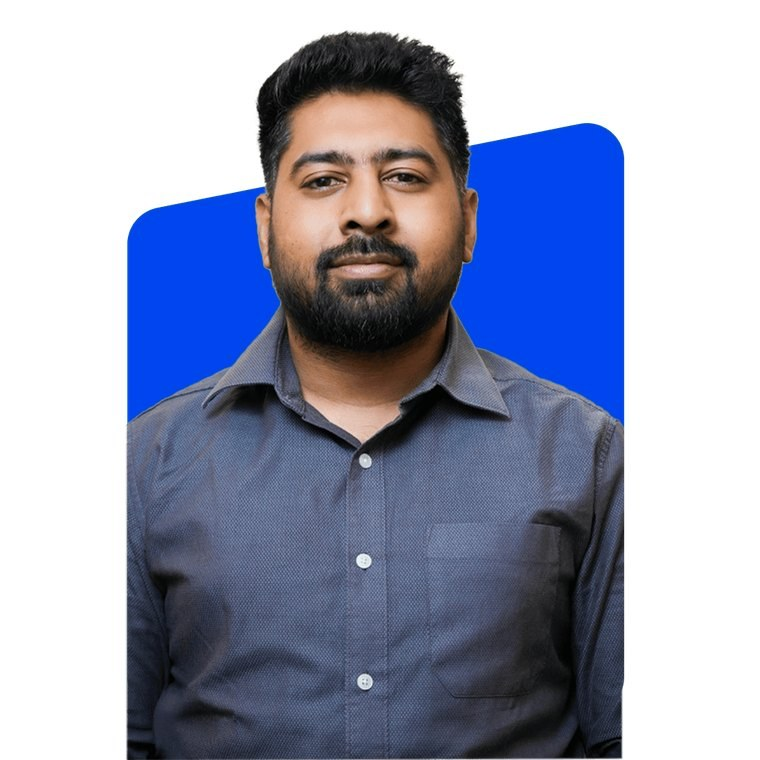
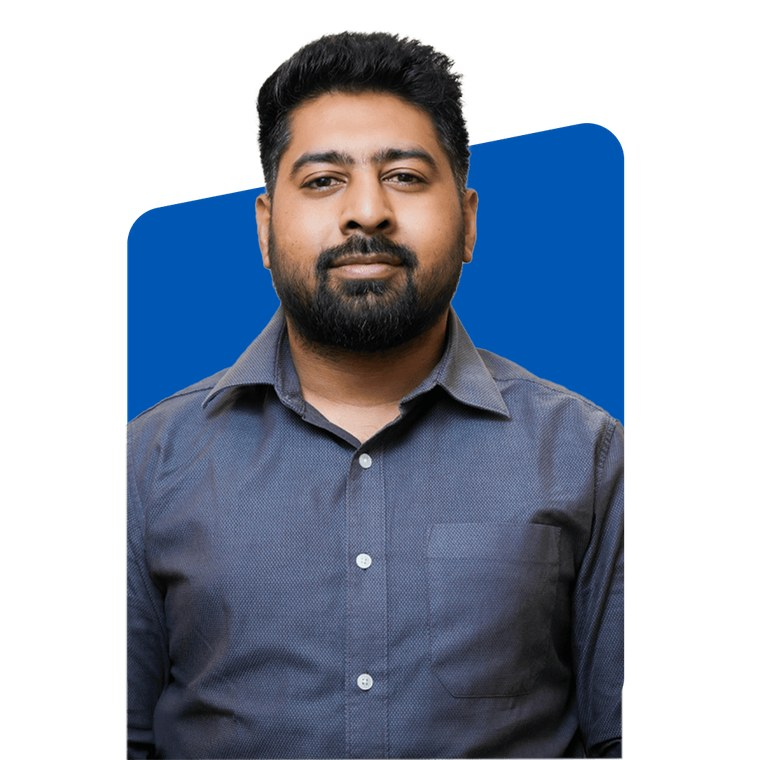
Switch to the source site's red and highlight key phrases
The page had no emphasis anywhere — every heading read as one flat
block of navy. alscourse.com highlights words inside its headings in
red, which is what carries the eye.

Adopt that palette in place of the borrowed blue, using the two tokens
the source actually defines: #FF0000 for heading highlights (UK,
Australia, and the equivalent phrase in every other section) and
#FF4D00 for the three phrases picked out inside the testimonial.

Both source reds fall short of AA at body size — #FF0000 is 4.00:1 on
white and #FF4D00 is 3.33:1. So #FF0000 is confined to headings, where
42-54px clears the 3:1 large-text bar, while buttons and small text use
#E60000 (4.81:1) and the quote highlights use #D43F00 (4.66:1). Both
read as the same reds. Verified zero contrast failures page-wide,
checked per element against its own size and weight.

Team photos are restored to their original #0056B3 backdrop — the blue
was only shifted to match the previous accent, and the source itself
pairs that blue with red.

Changed region(s): [[0.575, 0.1513, 0.8474, 0.5447], [0.1513, 0.2421, 0.3632, 0.5447]]

diff --git a/index.html b/index.html
@@ -183,9 +183,11 @@ tailwind.config = {
   theme: {
     extend: {
       colors: {
-        brand:   '#0145F0',
-        brandDeep:'#0134B8',
-        brandSoft:'#E8EEFE',
+        brand:   '#E60000',
+        brandHi: '#FF0000',
+        flame:   '#D43F00',
+        brandDeep:'#B30000',
+        brandSoft:'#FFECEC',
         ink:     '#011139',
         body:    '#4B5563',
         paper:   '#F5F7FC',
@@ -215,14 +217,14 @@ tailwind.config = {
          padding:.8rem 1rem .8rem 1.45rem; font-size:.9375rem; font-weight:600;
          transition:transform .18s ease, box-shadow .18s ease, background-color .18s ease; }
   .btn:hover { transform:translateY(-2px); }
-  .btn-primary { background:#0145F0; color:#fff; box-shadow:0 12px 28px -12px rgba(1,69,240,.65); }
-  .btn-primary:hover { background:#0134B8; }
+  .btn-primary { background:#E60000; color:#fff; box-shadow:0 12px 28px -12px rgba(230,0,0,.55); }
+  .btn-primary:hover { background:#B30000; }
   .btn-ghost { background:#fff; color:#011139; box-shadow:0 10px 26px -14px rgba(1,17,57,.45); }
   .btn-ghost:hover { background:#F5F7FC; }
   .btn .nub { display:grid; place-items:center; width:29px; height:29px; border-radius:50%;
               background:rgba(255,255,255,.22); flex:none; }
-  .btn-ghost .nub { background:#0145F0; color:#fff; }
-  .btn:focus-visible { outline:2px solid #0145F0; outline-offset:3px; }
+  .btn-ghost .nub { background:#E60000; color:#fff; }
+  .btn:focus-visible { outline:2px solid #E60000; outline-offset:3px; }
 
   .card { background:#fff; border-radius:30px; box-shadow:0 18px 50px -32px rgba(1,17,57,.35); }
   .chip { display:inline-flex; align-items:center; gap:.55rem; border-radius:50px;
@@ -231,8 +233,8 @@ tailwind.config = {
 
   /* Hero wash — the reference's soft blue gradient field. */
   .hero-wash { background:
-      radial-gradient(1100px 620px at 78% 18%, rgba(1,69,240,.13), transparent 62%),
-      radial-gradient(820px 520px at 8% 84%, rgba(1,69,240,.10), transparent 60%),
+      radial-gradient(1100px 620px at 78% 18%, rgba(230,0,0,.10), transparent 62%),
+      radial-gradient(820px 520px at 8% 84%, rgba(230,0,0,.08), transparent 60%),
       linear-gradient(180deg,#F7F9FE 0%,#EDF1FD 48%,#FFFFFF 100%); }
   .ghost-word { font-weight:700; letter-spacing:-.035em; line-height:.8;
                 font-size:clamp(4.5rem,15vw,13rem); color:#011139; opacity:.05;
@@ -254,9 +256,9 @@ tailwind.config = {
   .acc > summary { padding-block:.7rem; }
   .acc > summary::-webkit-details-marker { display:none; }
   .acc-chevron { flex:none; color:#8A93A6; transition:transform .25s ease, color .25s ease; }
-  .acc[open] > summary .acc-chevron { transform:rotate(180deg); color:#0145F0; }
-  .acc > summary:hover .acc-chevron { color:#0145F0; }
-  .acc > summary:focus-visible { outline:2px solid #0145F0; outline-offset:4px; border-radius:8px; }
+  .acc[open] > summary .acc-chevron { transform:rotate(180deg); color:#E60000; }
+  .acc > summary:hover .acc-chevron { color:#E60000; }
+  .acc > summary:focus-visible { outline:2px solid #E60000; outline-offset:4px; border-radius:8px; }
 
   /* Core-team carousel: the active slide is full colour and lifted, its
      neighbours sit back in greyscale so the eye lands on one person. */
@@ -267,8 +269,8 @@ tailwind.config = {
   .team-dot { display:grid; place-items:center; height:44px; width:26px; background:none; border:0; cursor:pointer; }
   .team-dot > i { display:block; width:9px; height:9px; border-radius:50%; background:#C7CFDE;
                   transition:background .25s ease, width .25s ease; }
-  .team-dot[aria-selected="true"] > i { background:#0145F0; width:24px; border-radius:50px; }
-  .team-dot:focus-visible { outline:2px solid #0145F0; outline-offset:2px; border-radius:8px; }
+  .team-dot[aria-selected="true"] > i { background:#E60000; width:24px; border-radius:50px; }
+  .team-dot:focus-visible { outline:2px solid #E60000; outline-offset:2px; border-radius:8px; }
 
   /* Reveals. [data-reveal] has NO hidden resting state, so a blocked script
      can never strand content invisible. Both keyframe stops are required:
@@ -339,7 +341,7 @@ tailwind.config = {
     <div class="grid items-center gap-12 lg:grid-cols-[1.02fr_.98fr] lg:gap-10">
       <div>
         <h1 class="rise-in t-h1" style="animation-delay:.05s">
-          ERC-Accredited <span class="text-brand">Advanced Life Support</span> Courses in India
+          ERC-Accredited <span class="text-brandHi">Advanced Life Support</span> Courses in India
         </h1>
         <p class="rise-in lead mt-5 max-w-[52ch]" style="animation-delay:.12s">
           Enroll in our comprehensive 2-day Advanced Life Support (ALS) courses in India and gain the skills necessary to provide critical life support in emergencies.
@@ -412,7 +414,7 @@ tailwind.config = {
 
 <section id="why" class="py-20 lg:py-28">
   <div class="shell">
-    <h2 data-reveal class="t-h2 max-w-[20ch]">India&rsquo;s 1st ALS course recognized in the UK and Australia</h2>
+    <h2 data-reveal class="t-h2 max-w-[20ch]">India&rsquo;s 1st ALS course recognized in the <span class="text-brandHi">UK</span> and <span class="text-brandHi">Australia</span></h2>
     <p data-reveal class="copy mt-4 max-w-[58ch]">It&rsquo;s not just a course, it&rsquo;s your gateway to better opportunities.</p>
 
     <div data-reveal class="mt-12 grid gap-6 md:grid-cols-3">
@@ -443,7 +445,7 @@ tailwind.config = {
 
 <section class="bg-paper py-20 lg:py-28">
   <div class="shell">
-    <h2 data-reveal class="t-h2 max-w-[22ch]">Complete and comprehensive ALS training experience</h2>
+    <h2 data-reveal class="t-h2 max-w-[22ch]">Complete and comprehensive <span class="text-brandHi">ALS training experience</span></h2>
 
     <div data-reveal class="mt-12 grid gap-6 md:grid-cols-3">
       <article class="card p-8">
@@ -464,7 +466,7 @@ tailwind.config = {
 
 <section id="curriculum" class="py-20 lg:py-28">
   <div class="shell">
-    <h2 data-reveal class="t-h2 max-w-[24ch]">Comprehensive, globally recognized ALS training with hands-on expertise</h2>
+    <h2 data-reveal class="t-h2 max-w-[24ch]">Comprehensive, globally recognized ALS training with <span class="text-brandHi">hands-on expertise</span></h2>
 
     <div data-reveal class="mt-14 space-y-16 lg:space-y-24">
 
@@ -527,7 +529,7 @@ tailwind.config = {
         <svg width="21" height="21" viewBox="0 0 24 24" fill="currentColor" aria-hidden="true"><path d="M9.5 6C6.5 6 4 8.5 4 11.5S6.2 17 9 17c.4 0 .8 0 1.1-.1-.6 1.4-2 2.5-3.6 2.8-.4.1-.6.5-.5.9.1.3.4.5.7.5h.2c3.6-.7 6.1-3.8 6.1-7.6V11.5C13 8.5 12.5 6 9.5 6zm10 0C16.5 6 14 8.5 14 11.5S16.2 17 19 17c.4 0 .8 0 1.1-.1-.6 1.4-2 2.5-3.6 2.8-.4.1-.6.5-.5.9.1.3.4.5.7.5h.2c3.6-.7 6.1-3.8 6.1-7.6V11.5C23 8.5 22.5 6 19.5 6z"/></svg>
       </span>
       <blockquote class="mt-7 text-[19px] font-medium leading-relaxed text-ink lg:text-[22px]">
-        &ldquo;The ALS course was incredibly thorough and far superior to any other training I&rsquo;ve received. The hands-on experience, combined with ERC-certified trainers who explained each concept in detail, gave me the confidence to handle real-life emergencies. I walked away not only ready for my PLAB-2 but with skills I could apply immediately in a clinical setting.&rdquo;
+        &ldquo;The ALS course was incredibly thorough and far superior to any other training I&rsquo;ve received. The <span class="text-flame">hands-on experience</span>, combined with <span class="text-flame">ERC-certified trainers</span> who explained each concept in detail, gave me the <span class="text-flame">confidence</span> to handle real-life emergencies. I walked away not only ready for my PLAB-2 but with skills I could apply immediately in a clinical setting.&rdquo;
       </blockquote>
       <figcaption class="mt-7">
         <div class="text-[15px] font-bold text-ink">Dr Rahul Mehta</div>
@@ -539,7 +541,7 @@ tailwind.config = {
 
 <section id="team" class="py-20 lg:py-28">
   <div class="shell">
-    <h2 data-reveal class="t-h2 text-center">The Core Team. <span class="text-brand">People who make it happen.</span></h2>
+    <h2 data-reveal class="t-h2 text-center">The Core Team. <span class="text-brandHi">People who make it happen.</span></h2>
 
     <!-- Carousel. The track is centred on the active slide by transform, and the
          markup order matches the source site's rotation. -->
@@ -626,11 +628,11 @@ tailwind.config = {
 
 <section id="pricing" class="bg-paper py-20 lg:py-28">
   <div class="shell">
-    <h2 data-reveal class="t-h2 max-w-[22ch]">Gain essential skills with our ERC-accredited ALS training</h2>
+    <h2 data-reveal class="t-h2 max-w-[22ch]">Gain essential skills with our <span class="text-brandHi">ERC-accredited</span> ALS training</h2>
 
     <div data-reveal class="mt-12 grid gap-8 lg:grid-cols-[1fr_1.05fr] lg:gap-14">
       <div class="relative overflow-hidden rounded-card bg-ink p-9 text-white lg:p-11">
-        <div class="pointer-events-none absolute -right-16 -top-16 h-52 w-52 rounded-full bg-brand/25 blur-2xl" aria-hidden="true"></div>
+        <div class="pointer-events-none absolute -right-16 -top-16 h-52 w-52 rounded-full bg-brand/30 blur-2xl" aria-hidden="true"></div>
         <div class="relative">
           <div class="flex flex-wrap items-center gap-x-3 gap-y-2 text-[12px] font-semibold uppercase tracking-[.09em] text-white/60">
             <span>Limited seats</span><span aria-hidden="true">&middot;</span><span>First-come-first-serve</span>
@@ -660,7 +662,7 @@ tailwind.config = {
 
 <section class="py-20 lg:py-28">
   <div class="shell">
-    <h2 data-reveal class="t-h2 max-w-[18ch]">Trusted by hundreds of doctors</h2>
+    <h2 data-reveal class="t-h2 max-w-[18ch]">Trusted by <span class="text-brandHi">hundreds of doctors</span></h2>
 
     <div data-reveal class="mt-12 grid gap-6 md:grid-cols-3">
       <figure class="card p-8">
@@ -704,7 +706,7 @@ tailwind.config = {
   <div class="shell">
     <div class="grid gap-12 lg:grid-cols-[1fr_1.5fr] lg:gap-20">
       <div class="lg:sticky lg:top-[104px] lg:self-start">
-        <h2 data-reveal class="t-h2">Have a question? We&rsquo;re here to answer.</h2>
+        <h2 data-reveal class="t-h2">Have a question? <span class="text-brandHi">We&rsquo;re here to answer.</span></h2>
       </div>
       <div data-reveal class="card divide-y divide-line px-7 lg:px-9">
         <details class="acc py-5" open>
@@ -738,7 +740,7 @@ tailwind.config = {
 
 <section class="py-20 lg:py-28">
   <div class="shell">
-    <h2 data-reveal class="t-h2 max-w-[20ch]">We have a fair &amp; transparent refund policy</h2>
+    <h2 data-reveal class="t-h2 max-w-[20ch]">We have a <span class="text-brandHi">fair &amp; transparent</span> refund policy</h2>
     <div data-reveal class="mt-11 grid gap-6 md:grid-cols-3">
       <div class="card p-8">
         <p class="text-[15px] font-bold text-brand">45 days or more before</p>
@@ -759,8 +761,8 @@ tailwind.config = {
 <section id="contact" class="pb-24 lg:pb-32">
   <div class="shell">
     <div data-reveal class="relative overflow-hidden rounded-card bg-ink px-8 py-16 text-center text-white lg:px-16 lg:py-20">
-      <div class="pointer-events-none absolute -left-24 -top-24 h-72 w-72 rounded-full bg-brand/25 blur-3xl" aria-hidden="true"></div>
-      <div class="pointer-events-none absolute -bottom-28 -right-20 h-72 w-72 rounded-full bg-brand/20 blur-3xl" aria-hidden="true"></div>
+      <div class="pointer-events-none absolute -left-24 -top-24 h-72 w-72 rounded-full bg-brand/30 blur-3xl" aria-hidden="true"></div>
+      <div class="pointer-events-none absolute -bottom-28 -right-20 h-72 w-72 rounded-full bg-brand/25 blur-3xl" aria-hidden="true"></div>
       <div class="relative">
         <h2 class="mx-auto max-w-[16ch] !text-white t-h2">Add ALS to your portfolio. Enroll today!</h2>
         <p class="mx-auto mt-6 max-w-[56ch] text-[16px] leading-relaxed text-white/70">
